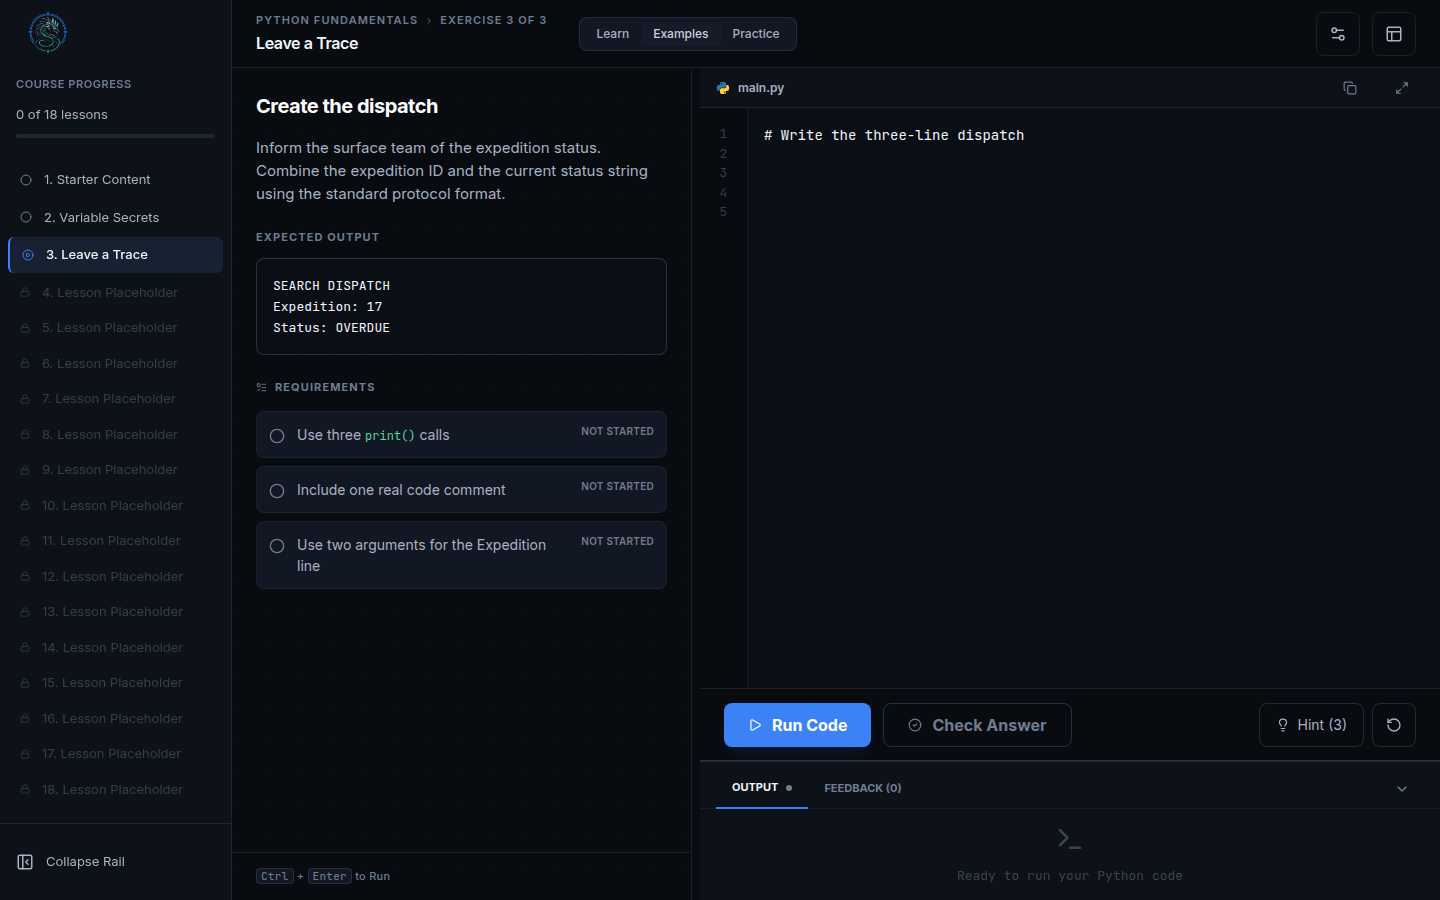
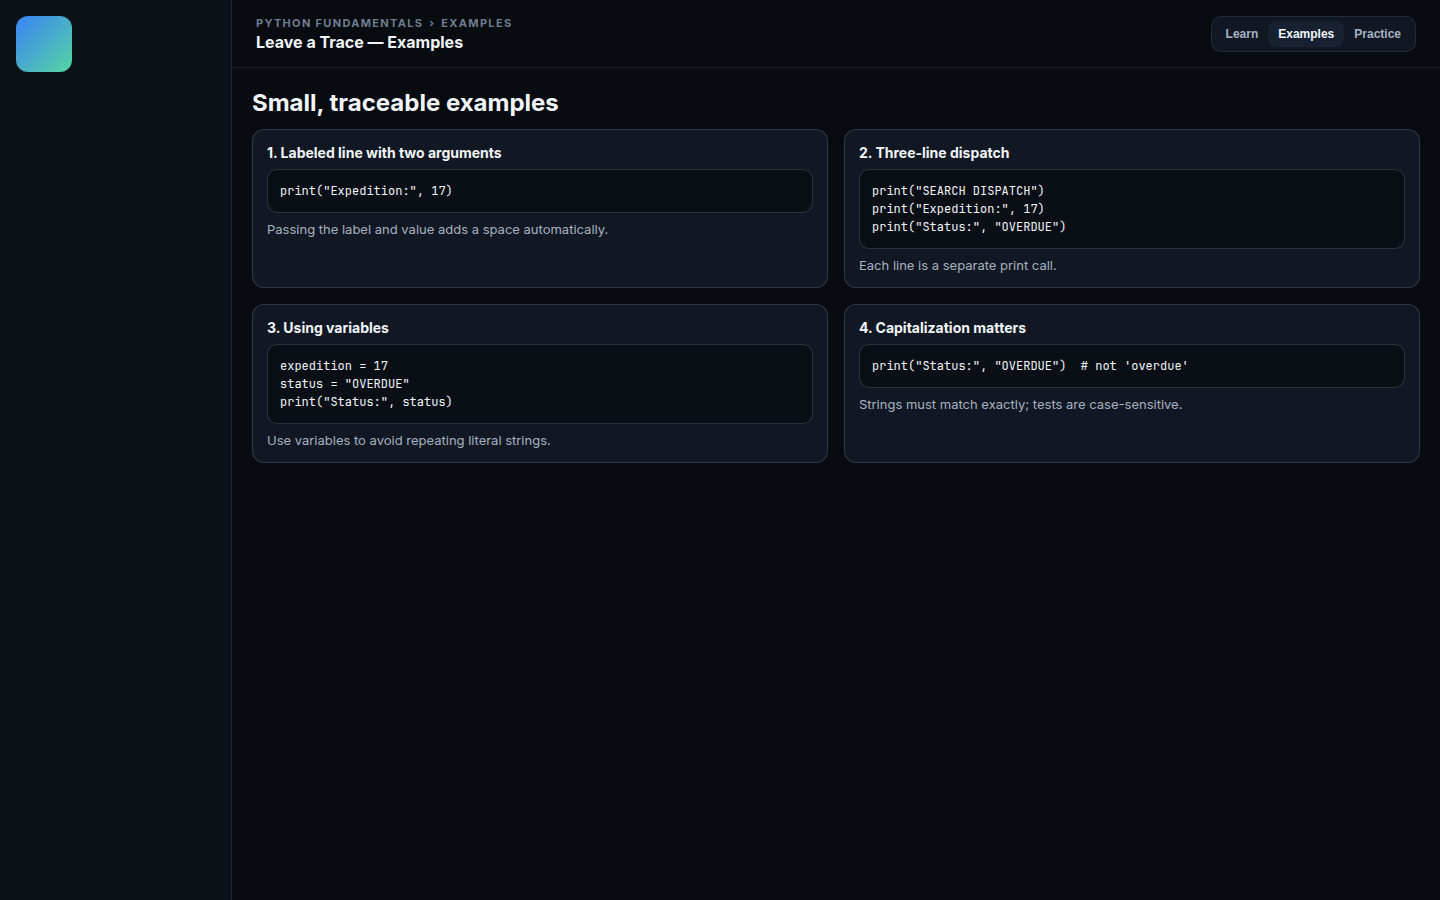
docs(handoff): replace Learn/Examples screenshots with durable local references; add reference HTML; update README

diff --git a/docs/design-handoff/basilisk-workspace-v9/references/learn-reference.html b/docs/design-handoff/basilisk-workspace-v9/references/learn-reference.html
@@ -1,0 +1,95 @@
+<!DOCTYPE html>
+<html lang="en">
+<head>
+  <meta charset="UTF-8" />
+  <meta name="viewport" content="width=device-width, initial-scale=1.0" />
+  <title>Basilisk — Learn (Reference)</title>
+  <style>
+    :root{
+      --app-bg:#080B10;--rail-bg:#0D1219;--panel-bg:#111823;--active-panel:#172131;
+      --border-subtle:rgba(148,163,184,0.14);--border-strong:rgba(148,163,184,0.24);
+      --text-primary:#F1F5F9;--text-secondary:#A7B2C2;--text-muted:#6F7D90;
+      --primary-blue:#3B82F6;--basil-green:#54D6A1;
+    }
+    *{box-sizing:border-box}
+    body{margin:0;background:var(--app-bg);color:var(--text-primary);font-family:Inter,ui-sans-serif,system-ui,sans-serif}
+    .row{display:flex;height:100vh;width:100vw;overflow:hidden}
+    aside{width:232px;background:var(--rail-bg);border-right:1px solid var(--border-subtle);padding:16px}
+    .brand{height:56px;width:56px;background:linear-gradient(135deg,#3B82F6, #54D6A1);border-radius:12px}
+    main{flex:1;display:flex;flex-direction:column}
+    header{height:68px;display:flex;align-items:center;justify-content:space-between;padding:0 24px;border-bottom:1px solid var(--border-subtle)}
+    .title small{display:flex;gap:6px;color:var(--text-muted);font-weight:700;letter-spacing:.12em;text-transform:uppercase;font-size:11px;margin-bottom:2px}
+    .title h1{margin:0;font-size:16px}
+    .seg{display:flex;background:var(--panel-bg);padding:4px;border:1px solid var(--border-subtle);border-radius:10px}
+    .seg button{border:0;background:transparent;color:var(--text-secondary);padding:6px 10px;border-radius:8px;font-size:12px;font-weight:600;cursor:default}
+    .seg .active{background:var(--active-panel);color:var(--text-primary)}
+    .content{display:flex;flex:1;overflow:hidden}
+    .prompt{width:520px;min-width:480px;border-right:1px solid var(--border-subtle);background:rgba(17,24,35,.7);padding:24px;overflow:auto}
+    .prompt h2{margin:0 0 8px 0}
+    .prompt p{margin:0 0 14px 0;color:var(--text-secondary);line-height:1.5}
+    .callout{border:1px solid var(--border-strong);background:#0A0F16;border-radius:10px;padding:14px;margin:10px 0;color:var(--text-primary)}
+    .example{border:1px solid var(--border-strong);background:#0A0F16;border-radius:10px;padding:14px;margin:10px 0;font-family:JetBrains Mono,monospace;font-size:13px;line-height:1.5;color:var(--text-primary)}
+    .sidebar{flex:1;display:flex;flex-direction:column}
+    .panel{padding:18px}
+    .panel h3{margin:0 0 8px 0;font-size:13px;color:var(--text-muted);text-transform:uppercase;letter-spacing:.12em}
+    .checklist{display:grid;gap:8px}
+    .item{display:flex;gap:10px;align-items:flex-start;padding:10px;border:1px solid rgba(148,163,184,0.08);background:var(--panel-bg);border-radius:10px}
+    .dot{width:10px;height:10px;border-radius:999px;background:var(--text-muted);margin-top:4px}
+    .kbd{display:inline-block;background:var(--panel-bg);padding:1px 4px;border:1px solid rgba(255,255,255,.08);border-radius:4px}
+  </style>
+</head>
+<body>
+  <div class="row">
+    <aside>
+      <div class="brand" title="Basilisk emblem"></div>
+    </aside>
+    <main>
+      <header>
+        <div class="title">
+          <small><span>Python Fundamentals</span><span>›</span><span>Learn</span></small>
+          <h1>Leave a Trace — Concept: Printing Structured Output</h1>
+        </div>
+        <div class="seg" aria-label="Workspace modes">
+          <button class="active">Learn</button>
+          <button>Examples</button>
+          <button>Practice</button>
+        </div>
+      </header>
+      <div class="content">
+        <section class="prompt" aria-labelledby="learn-heading">
+          <h2 id="learn-heading">Why this matters</h2>
+          <p>Programs often present information in a structured way. In Basilisk, dispatches include a title
+            and labeled lines. You will combine strings and values and print them on separate lines.</p>
+          <div class="callout">
+            Goal: format a dispatch like:<br />
+            <strong>SEARCH DISPATCH</strong><br />
+            <strong>Expedition:</strong> 17<br />
+            <strong>Status:</strong> OVERDUE
+          </div>
+          <h2>Worked example</h2>
+          <p>This example shows labeled lines using multiple <code class="kbd">print()</code> calls.</p>
+          <pre class="example">print("SEARCH DISPATCH")
+print("Expedition:", 17)
+print("Status:", "OVERDUE")</pre>
+          <p>Notice the label and value are passed as <em>separate arguments</em>, which adds a space automatically.</p>
+        </section>
+        <aside class="sidebar">
+          <div class="panel">
+            <h3>Key ideas</h3>
+            <div class="checklist">
+              <div class="item"><div class="dot" style="background:var(--basil-green)"></div><div>Use one <code class="kbd">print()</code> per output line</div></div>
+              <div class="item"><div class="dot" style="background:var(--basil-green)"></div><div>Pass label and value as two arguments</div></div>
+              <div class="item"><div class="dot" style="background:var(--primary-blue)"></div><div>Exact capitalization matters in strings</div></div>
+            </div>
+          </div>
+          <div class="panel">
+            <h3>Next</h3>
+            <p>Switch to <strong>Practice</strong> to apply this structure on your own.</p>
+          </div>
+        </aside>
+      </div>
+    </main>
+  </div>
+</body>
+</html>
+

diff --git a/docs/design-handoff/basilisk-workspace-v9/references/examples-reference.html b/docs/design-handoff/basilisk-workspace-v9/references/examples-reference.html
@@ -1,0 +1,87 @@
+<!DOCTYPE html>
+<html lang="en">
+<head>
+  <meta charset="UTF-8" />
+  <meta name="viewport" content="width=device-width, initial-scale=1.0" />
+  <title>Basilisk — Examples (Reference)</title>
+  <style>
+    :root{
+      --app-bg:#080B10;--rail-bg:#0D1219;--panel-bg:#111823;--active-panel:#172131;
+      --border-subtle:rgba(148,163,184,0.14);--border-strong:rgba(148,163,184,0.24);
+      --text-primary:#F1F5F9;--text-secondary:#A7B2C2;--text-muted:#6F7D90;
+      --primary-blue:#3B82F6;--basil-green:#54D6A1;
+    }
+    *{box-sizing:border-box}
+    body{margin:0;background:var(--app-bg);color:var(--text-primary);font-family:Inter,ui-sans-serif,system-ui,sans-serif}
+    .row{display:flex;height:100vh;width:100vw;overflow:hidden}
+    aside{width:232px;background:var(--rail-bg);border-right:1px solid var(--border-subtle);padding:16px}
+    .brand{height:56px;width:56px;background:linear-gradient(135deg,#3B82F6, #54D6A1);border-radius:12px}
+    main{flex:1;display:flex;flex-direction:column}
+    header{height:68px;display:flex;align-items:center;justify-content:space-between;padding:0 24px;border-bottom:1px solid var(--border-subtle)}
+    .title small{display:flex;gap:6px;color:var(--text-muted);font-weight:700;letter-spacing:.12em;text-transform:uppercase;font-size:11px;margin-bottom:2px}
+    .title h1{margin:0;font-size:16px}
+    .seg{display:flex;background:var(--panel-bg);padding:4px;border:1px solid var(--border-subtle);border-radius:10px}
+    .seg button{border:0;background:transparent;color:var(--text-secondary);padding:6px 10px;border-radius:8px;font-size:12px;font-weight:600;cursor:default}
+    .seg .active{background:var(--active-panel);color:var(--text-primary)}
+    .content{display:flex;flex:1;overflow:hidden}
+    .catalog{flex:1;padding:20px;overflow:auto}
+    .grid{display:grid;grid-template-columns:repeat(2,minmax(0,1fr));gap:16px}
+    .card{border:1px solid var(--border-strong);background:var(--panel-bg);border-radius:12px;padding:14px}
+    .card h4{margin:0 0 8px 0;font-size:14px}
+    .code{margin:0;border:1px solid var(--border-strong);background:#0A0F16;border-radius:10px;padding:12px;font-family:JetBrains Mono,monospace;font-size:12px;line-height:1.5;color:var(--text-primary)}
+    .hint{margin-top:8px;color:var(--text-secondary);font-size:13px}
+  </style>
+</head>
+<body>
+  <div class="row">
+    <aside>
+      <div class="brand" title="Basilisk emblem"></div>
+    </aside>
+    <main>
+      <header>
+        <div class="title">
+          <small><span>Python Fundamentals</span><span>›</span><span>Examples</span></small>
+          <h1>Leave a Trace — Examples</h1>
+        </div>
+        <div class="seg" aria-label="Workspace modes">
+          <button>Learn</button>
+          <button class="active">Examples</button>
+          <button>Practice</button>
+        </div>
+      </header>
+      <div class="content">
+        <section class="catalog" aria-labelledby="examples-heading">
+          <h2 id="examples-heading" style="margin:0 0 12px 0;">Small, traceable examples</h2>
+          <div class="grid">
+            <article class="card">
+              <h4>1. Labeled line with two arguments</h4>
+              <pre class="code">print("Expedition:", 17)</pre>
+              <div class="hint">Passing the label and value adds a space automatically.</div>
+            </article>
+            <article class="card">
+              <h4>2. Three-line dispatch</h4>
+              <pre class="code">print("SEARCH DISPATCH") 
+print("Expedition:", 17)
+print("Status:", "OVERDUE")</pre>
+              <div class="hint">Each line is a separate print call.</div>
+            </article>
+            <article class="card">
+              <h4>3. Using variables</h4>
+              <pre class="code">expedition = 17
+status = "OVERDUE"
+print("Status:", status)</pre>
+              <div class="hint">Use variables to avoid repeating literal strings.</div>
+            </article>
+            <article class="card">
+              <h4>4. Capitalization matters</h4>
+              <pre class="code">print("Status:", "OVERDUE")  # not 'overdue'</pre>
+              <div class="hint">Strings must match exactly; tests are case-sensitive.</div>
+            </article>
+          </div>
+        </section>
+      </div>
+    </main>
+  </div>
+</body>
+</html>
+

diff --git a/docs/design-handoff/basilisk-workspace-v9/README.md b/docs/design-handoff/basilisk-workspace-v9/README.md
@@ -8,6 +8,7 @@ This package contains the approved Superdesign prototype at version 9 and its fi
 - `assets/basilisk-app-mark-v2.png` — final blue-and-basil-green Basilisk emblem
 - `source.json` — source draft identifiers and review links
 - `screenshots/` — durable desktop references (1440×900) for key states
+- `references/` — local static Learn/Examples reference HTML used to render durable images
 
 ## Review the prototype
 
@@ -77,8 +78,8 @@ To make the approved appearance reviewable offline (without CDNs or external lin
 
 - `practice-1440x900.png` — default desktop layout
 - `practice-collapsed-rail-1440x900.png` — collapsed curriculum rail variant
-- `learn-1440x900.png` — header Learn tab visual state (content unchanged in this prototype; see `source.json` for authoritative Learn content design)
-- `examples-1440x900.png` — header Examples tab visual state (content unchanged; see `source.json` for authoritative Examples content design)
+- `learn-1440x900.png` — Learn mode reference captured from `references/learn-reference.html` (durable local approximation of the approved Learn composition; see `source.json` for the authoritative source)
+- `examples-1440x900.png` — Examples mode reference captured from `references/examples-reference.html` (durable local approximation of the approved Examples composition; see `source.json` for the authoritative source)
 
 ## Source
 
